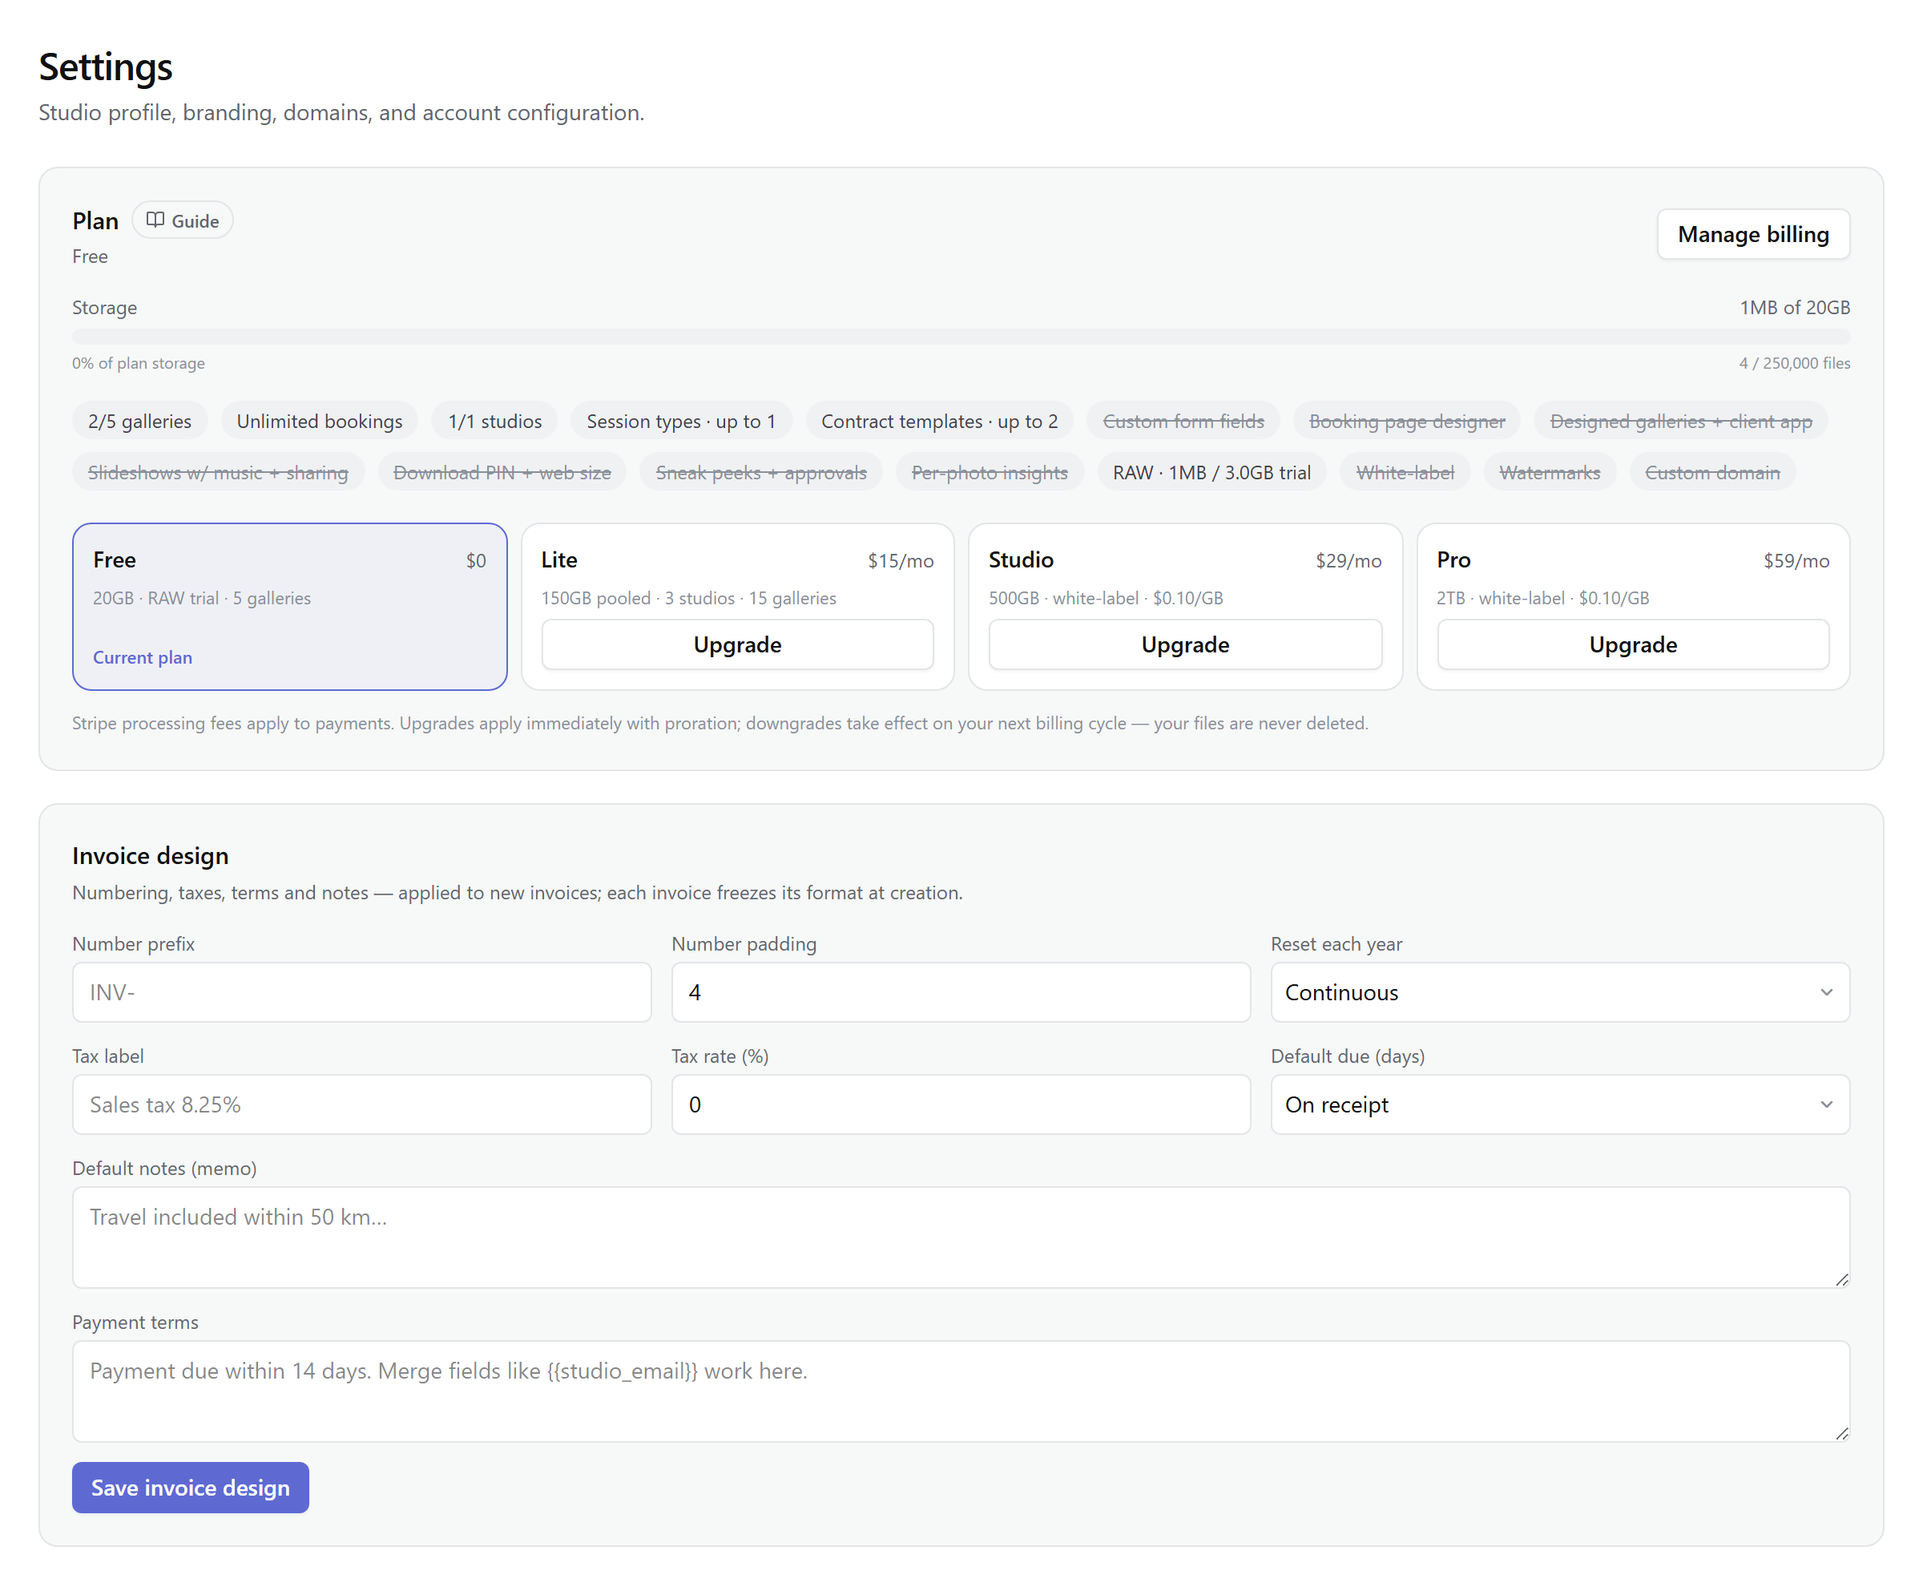
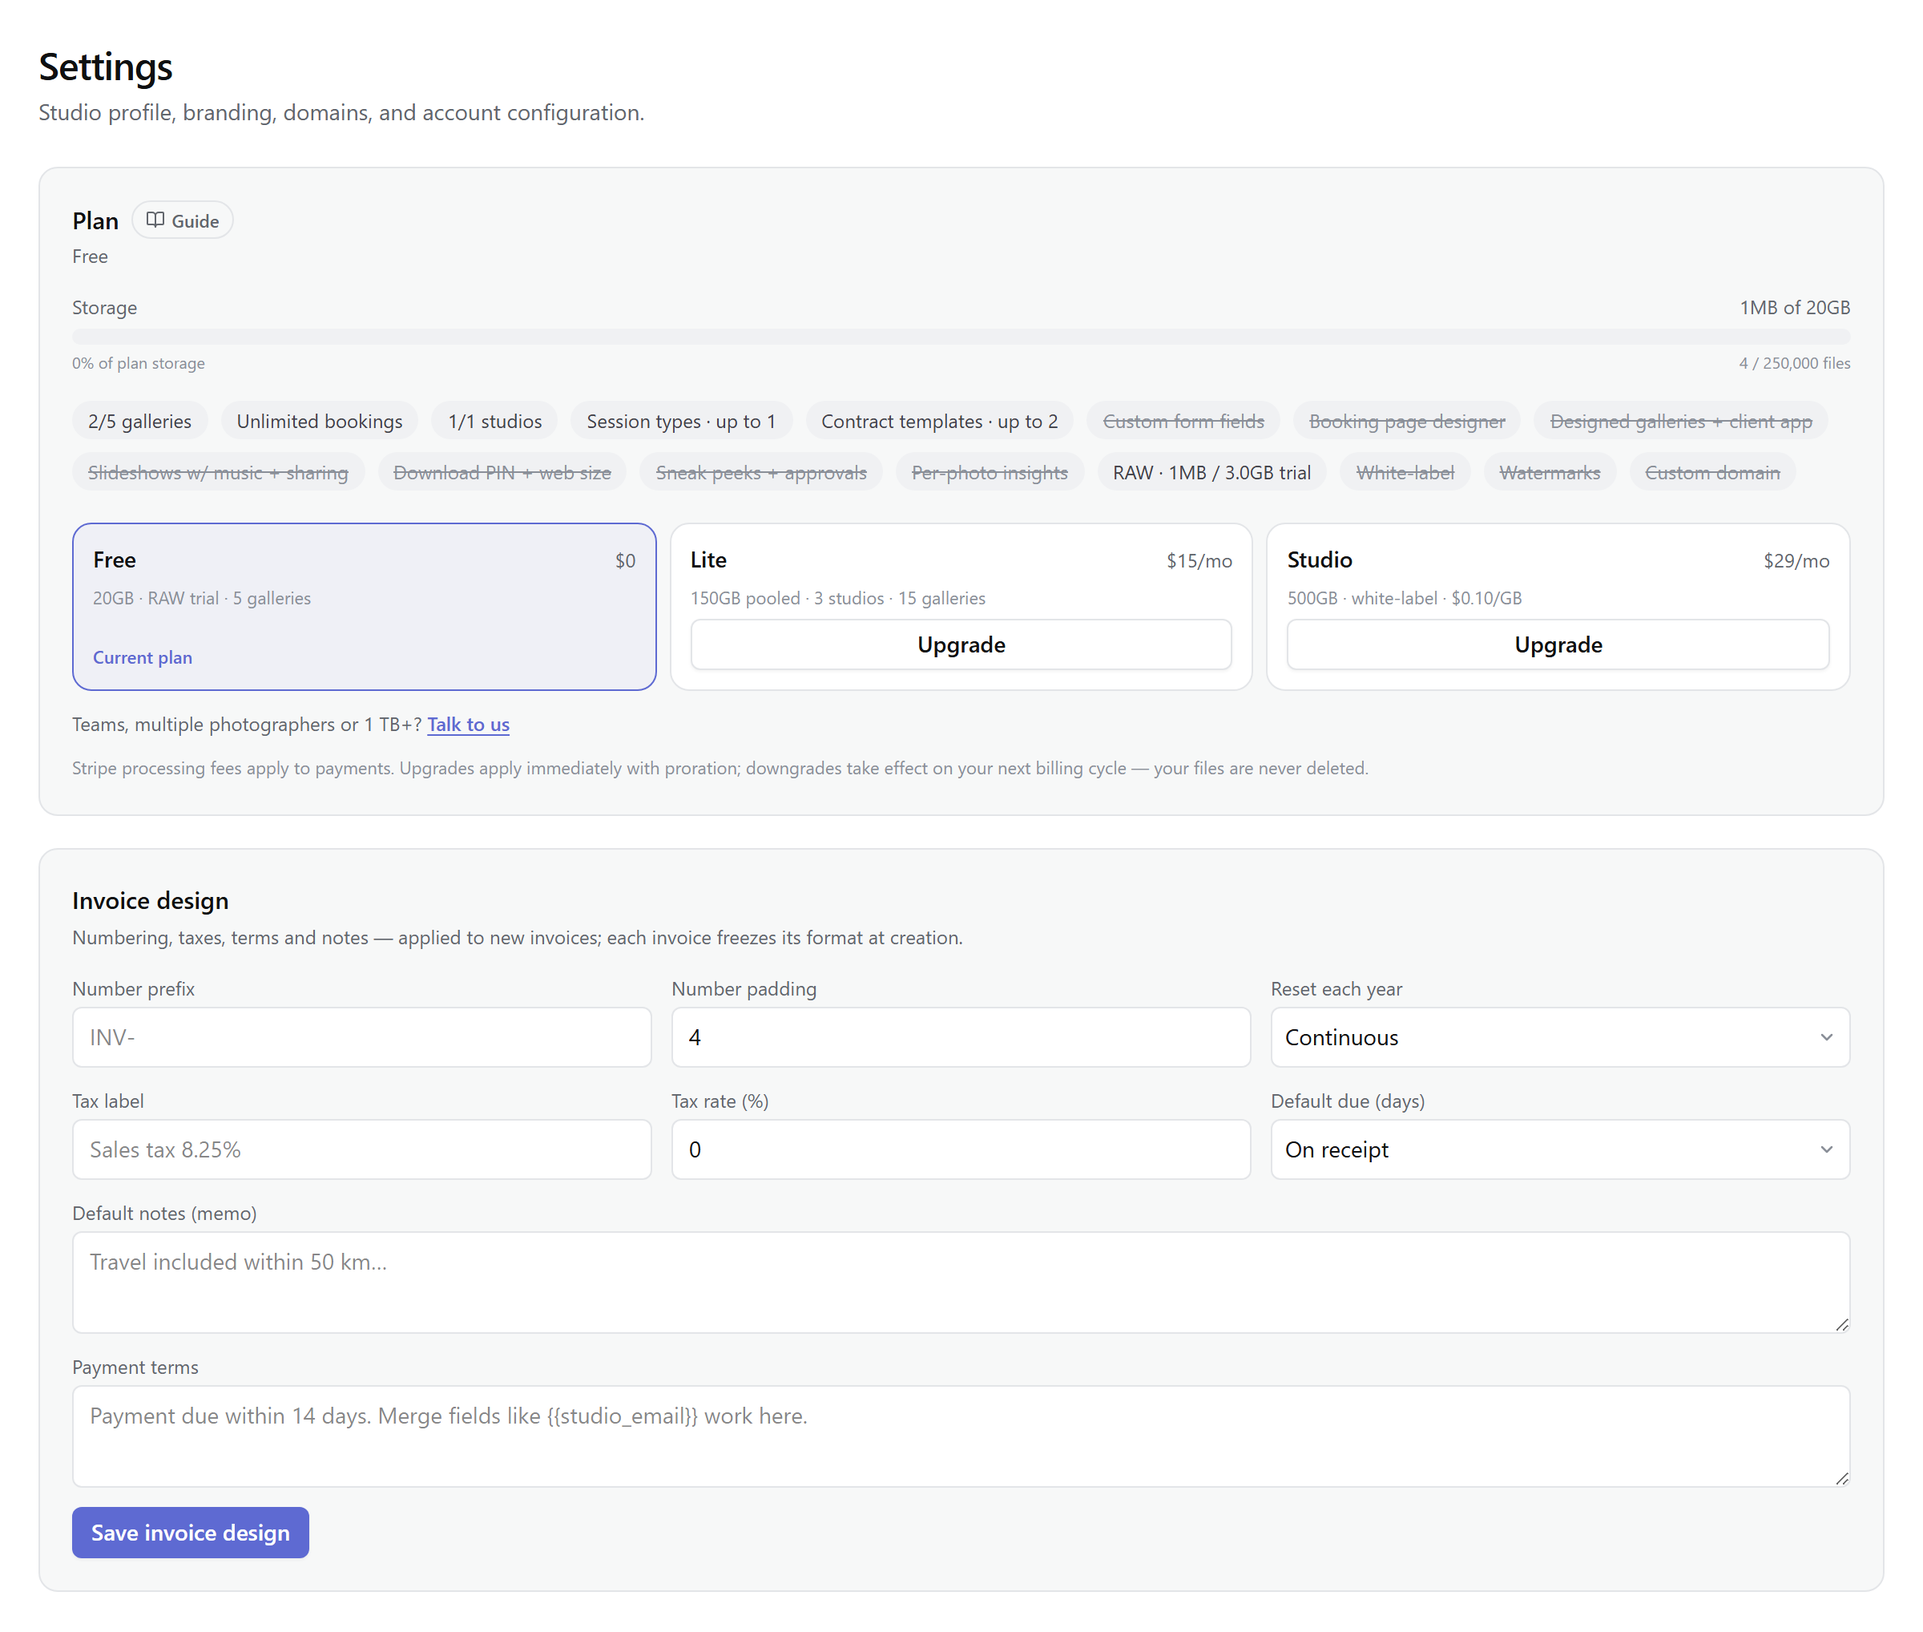
docs(snap): docs-guard cycle 5 — WEB-352 Stripe re-architecture documented (OAuth connect + existing account, direct charges in the studio's currency, connected-required before paid bookings, /b/ checkout-follow fix, per-thread payment-link void); snaphq.app migration swept across docs (canonical ho

diff --git a/apps/snap/lib/docs/content/payouts.tsx b/apps/snap/lib/docs/content/payouts.tsx
@@ -1,7 +1,10 @@
-/* Payouts - connecting your own Stripe account and where client money goes. Read from
+/* Payouts - connecting your own Stripe account (hosted onboarding or OAuth for an
+ * existing account) and where client money goes. Read from
  * components/payouts-panel.tsx, lib/connect.ts, and the booking/invoice
- * charge paths (direct charges on the studio account, no application fee, WEB-352). Fee and
- * timing claims stay within what the code and panel actually show. */
+ * charge paths (direct charges on the studio account, no application fee, WEB-352).
+ * State semantics: charges_enabled with only Stripe-side verification pending is
+ * still "active" - "restricted" is reserved for requirements Stripe waits on YOU for.
+ * Fee and timing claims stay within what the code and panel actually show. */
 import { H2, Note, Callout, Shot, Related } from "@/lib/docs/primitives";
 
 export default function Payouts() {
@@ -25,8 +28,9 @@ export default function Payouts() {
         If your studio already uses Stripe, choose <strong>I already have a Stripe account</strong> next to
         Connect payouts. You sign in to Stripe, approve Snap, and payments go to that account with
         no new account to create. Stripe&apos;s fees come out of your own account, exactly as with a
-        new one. To disconnect later, revoke Snap in your Stripe dashboard and Snap stops charging
-        on it. (The option only appears once Snap has it switched on for your region.)
+        new one. To disconnect later, revoke Snap in your Stripe dashboard — Snap stops
+        charging on it and the panel returns to Not connected. (The option only appears once
+        Snap has switched it on for the platform.)
       </p>
 
       <H2>Connecting your Stripe account</H2>
@@ -45,19 +49,19 @@ export default function Payouts() {
         <tbody>
           <tr>
             <td>Not connected</td>
-            <td>No Stripe account yet — the Connect payouts button starts onboarding.</td>
+            <td>No Stripe account connected yet — <strong>Connect payouts</strong> creates one with Stripe-hosted onboarding, or <strong>I already have a Stripe account</strong> links an existing one.</td>
           </tr>
           <tr>
             <td>Setup in progress</td>
-            <td>The account exists but onboarding isn&apos;t finished — Resume onboarding continues where you left off.</td>
+            <td>The account exists but onboarding — or Stripe&apos;s review of it — isn&apos;t finished. Resume onboarding continues where you left off.</td>
           </tr>
           <tr>
             <td>Connected</td>
-            <td>Payments can land. The panel gains your live balance and payout schedule.</td>
+            <td>Stripe accepts charges on your account — payments can land. Even while Stripe is still finishing identity verification or payout setup in the background, you stay Connected. The panel gains your live balance and payout schedule.</td>
           </tr>
           <tr>
             <td>Needs attention</td>
-            <td>Stripe needs updated information before payments continue — Update with Stripe reopens onboarding.</td>
+            <td>Stripe is waiting on <em>you</em> — past-due requirements or a disabled account. Update with Stripe reopens onboarding, and the panel names the items it needs.</td>
           </tr>
         </tbody>
       </table>
@@ -69,7 +73,8 @@ export default function Payouts() {
       <H2>Where the money goes</H2>
       <p>
         Clients pay your Stripe account directly — booking deposits and invoice payment links
-        are routed to it the moment you&apos;re connected. Snap&apos;s cut is <strong>$0</strong>:
+        are charged on it the moment you&apos;re connected, in your account&apos;s own currency.
+        Snap&apos;s cut is <strong>$0</strong>:
         there is no platform fee on client payments; the subscription is how Snap earns. Once
         connected, the panel shows your Stripe balance as it is — <strong>Available</strong>,{" "}
         <strong>Pending</strong>, and your <strong>last payout</strong> — refreshed from Stripe
@@ -94,8 +99,10 @@ export default function Payouts() {
       </p>
 
       <Callout tone="info" title="Needs attention is fixable, not fatal">
-        If Stripe flags your account — expired verification, a bank change — payments pause
-        until the information is updated. The panel names what Stripe is waiting on and links
+        A Stripe review that needs nothing from you never interrupts anything — identity
+        verification in flight keeps you Connected and taking payments. Needs attention appears
+        only when Stripe is waiting on you: an expired document, a bank change. Payments pause
+        until the information is updated, and the panel names what Stripe is waiting on and links
         you straight to the fix.
       </Callout>
 

diff --git a/apps/snap/lib/docs/content/payments.tsx b/apps/snap/lib/docs/content/payments.tsx
@@ -40,6 +40,13 @@ export default function Payments() {
         ]}
       />
       <Note>
+        Everything about an invoice is counted in <strong>your Stripe account&apos;s
+        currency</strong> — the one your connected account settles in, not a Snap default. Line
+        items and the total show it in the composer, the client&apos;s checkout charges it, and
+        merge fields like <code>{"{{invoice_total}}"}</code> and{" "}
+        <code>{"{{deposit}}"}</code> format with it.
+      </Note>
+      <Note>
         After sending, an invoice is <strong>paid</strong> two ways: the client pays the link and
         Stripe&apos;s webhook flips it automatically, or you press{" "}
         <strong>Mark paid</strong> for money that arrived some other way. <strong>Void</strong>{" "}
@@ -63,8 +70,9 @@ export default function Payments() {
       <p>
         The emailed link opens a private invoice page — studio name, status badge, line items,
         tax line, total due, and your terms and notes — with a{" "}
-        <strong>Pay — secure checkout</strong> button while the invoice is unpaid and a PDF
-        download. The link is a 256-bit token unique to that invoice: no login, unguessable, and
+        <strong>Pay — secure checkout</strong> button whenever the invoice carries its online
+        payment link (an invoice sent before a Stripe account was connected goes out without
+        one) and a PDF download. The link is a 256-bit token unique to that invoice: no login, unguessable, and
         you can resend it any time. Voided invoices vanish from their link entirely. The page and
         email follow your brand, dropping Snap&apos;s name entirely when white-labeled.
       </p>

diff --git a/apps/snap/lib/docs/content/booking-page.tsx b/apps/snap/lib/docs/content/booking-page.tsx
@@ -47,8 +47,9 @@ export default function BookingPage() {
           </>,
           <>
             <strong>Pay, if you ask them to</strong> — when a deposit or full payment is required
-            (on the session type or your booking settings), they finish through Stripe Checkout
-            while the slot is held.
+            (on the session type or your booking settings), the whole page follows Stripe
+            Checkout — hosted by Stripe, and back to your page when it&apos;s done — while the
+            slot is held.
           </>,
           <>
             <strong>Get confirmed</strong> — a branded confirmation email with a calendar invite
@@ -57,6 +58,15 @@ export default function BookingPage() {
           </>,
         ]}
       />
+      <p>
+        Money follows your Stripe account, not a Snap default: prices on the page show in your
+        account&apos;s currency, and paid bookings are charged on it directly (see{" "}
+        <a href="/docs/payouts">Payouts</a>). Paid bookings need that connection to be active —
+        if it isn&apos;t, the calendar doesn&apos;t take bookings it can&apos;t charge for.
+        Clients who try to pay see a plain note that the studio can&apos;t take online payments
+        right now and to get in touch directly, with your contact email in the footer just
+        below.
+      </p>
       <p>
         The page embeds exactly the same calendar as the{" "}
         <a href="/docs/embeds">website embed</a> — identical availability engine, bot protection,

diff --git a/apps/snap/lib/docs/content/embeds.tsx b/apps/snap/lib/docs/content/embeds.tsx
@@ -11,7 +11,7 @@ import { DocsCode } from "@/components/docs-code";
 import { DocsLiveDemo } from "@/components/docs-live-demo";
 import { getDb } from "@/lib/db";
 import * as schema from "@/lib/db-schema";
-import { PUBLIC_ORIGIN } from "@/lib/hosts";
+import { PUBLIC_ORIGIN, emailAddress } from "@/lib/hosts";
 
 const LOADER = `${PUBLIC_ORIGIN}/embed/loader.js`;
 
@@ -38,6 +38,10 @@ export default function Embeds() {
         <a href="/dashboard/settings/embeds">Settings → Embeds</a>, or paste the examples below.
         Want the pages themselves on your own domain? See{" "}
         <a href="/docs/domains">custom domains</a>.
+      </p>
+      <p>
+        Embedded Snap before our move to snaphq.app? Snippets pointing at the older{" "}
+        <code>snap.webcules.com</code> loader keep working — no need to repaste anything.
       </p>
 
       <Callout tone="warn" title="Before you embed">
@@ -200,7 +204,7 @@ function App() {
       <p>
         Snippets are generated per studio with your key and theme at{" "}
         <a href="/dashboard/settings/embeds">Settings → Embeds</a>. Questions —{" "}
-        <a href="mailto:hello@webcules.com">hello@webcules.com</a>.
+        <a href={`mailto:${emailAddress("hello")}`}>{emailAddress("hello")}</a>.
       </p>
 
       <Related slugs={["booking-page", "domains", "brand"]} />

diff --git a/apps/snap/lib/docs/content/bookings.tsx b/apps/snap/lib/docs/content/bookings.tsx
@@ -60,6 +60,19 @@ export default function Bookings() {
         <strong>unpaid</strong>, <strong>deposit</strong>, or <strong>paid</strong>.
       </p>
 
+      <H2>Turning on paid bookings</H2>
+      <p>
+        Payment at booking — a deposit or the full session amount — is switched on under{" "}
+        <a href="/dashboard/calendar?tab=availability">Calendar → Availability → Booking
+        payment</a> or per session type in <a href="/dashboard/templates/session-types">Templates
+        → Session types</a>. Both refuse to switch on until your Stripe account is connected and
+        active, with a link straight to <a href="/dashboard/settings/payouts">Settings →
+        Payouts</a> — client payments are charged directly on your account, so there is nowhere
+        for them to land without one. Charges run in your Stripe account&apos;s currency. If a
+        connection is ever lost after payment was already on, the setting stays as it was, but
+        clients can&apos;t complete a paid booking until you reconnect.
+      </p>
+
       <H2>What a confirmed booking creates</H2>
       <ul>
         <li>

diff --git a/apps/snap/lib/docs/content/inbox.tsx b/apps/snap/lib/docs/content/inbox.tsx
@@ -123,7 +123,12 @@ export default function Inbox() {
         In-Reply-To/References chain, Snap&rsquo;s own thread header, Outlook&rsquo;s
         Thread-Index, the unique per-conversation reply address your mail now carries, and
         finally a normalized subject match with the same client within 45 days. Anything that
-        survives all five lands under <strong>Needs triage</strong> instead of vanishing.
+        survives all five lands under <strong>Needs triage</strong> instead of vanishing — and
+        from there Snap asks rather than guesses: attach the email to the client, lead or project
+        it belongs to, and if that project has no client yet a <strong>Connect a client</strong>{" "}
+        prompt opens with the sender already filled in. Conversations that were left without a
+        client show the same <strong>Connect a client</strong> button where the reply box would
+        be, so a reply always has somewhere to go.
       </p>
       <p>
         Two safety nets while the inbox is young. <strong>Reply mirroring</strong> (Settings →

diff --git a/apps/snap/lib/docs/content/domains.tsx b/apps/snap/lib/docs/content/domains.tsx
@@ -33,6 +33,12 @@ export default function Domains() {
         <code>clients.</code> or <code>book.</code> are the popular choices.
       </p>
 
+      <p>
+        Your hostname is first-class from the moment it activates: the gallery sign-in, contract
+        signing, the client portal and questionnaires all work on it — human check included, with
+        no extra setup on our side.
+      </p>
+
       <H2>The three steps</H2>
       <Steps
         items={[
@@ -177,7 +183,8 @@ export default function Domains() {
       </p>
       <p>
         <strong>I run multiple studios — one domain each?</strong> Each studio in your family
-        configures its own domains in its own Settings → Domains.
+        configures its own domains in its own Settings → Domains — and there&rsquo;s no limit on
+        how many studios can connect one.
       </p>
       <p>
         <strong>What does it cost?</strong> On Studio, a custom domain is the +$5/mo add-on for

diff --git a/apps/snap/components/availability-editor.tsx b/apps/snap/components/availability-editor.tsx
@@ -246,7 +246,7 @@ export function AvailabilityEditor({
           >
             <strong className="font-medium">Connect your Stripe account to take payments.</strong>{" "}
             {payEnabled
-              ? "Payment is on, but clients can't complete a paid booking until Stripe is connected - they will see an error. Connect now, or turn payment off."
+              ? "Payment is on, but clients can't complete a paid booking until Stripe is connected - they'll see a note explaining you can't take online payments yet. Connect now, or turn payment off."
               : "Paid bookings stay off until Stripe is connected. Clients pay you directly, and Stripe's fee comes out of your own Stripe account."}{" "}
             <a href="/dashboard/settings/payouts" className="font-medium text-primary underline underline-offset-2">
               Connect Stripe in Settings → Payouts

diff --git a/apps/snap/lib/docs/content/leads.tsx b/apps/snap/lib/docs/content/leads.tsx
@@ -84,7 +84,8 @@ export default function Leads() {
         studio&apos;s own events (bookings, contracts, payments, gallery activity) interleave as
         compact cards with deep links. The thread header links the lead and the project, and an
         email that arrived unmatched can be attached to the right client, lead or project from{" "}
-        <strong>Needs triage</strong> in one click.
+        <strong>Needs triage</strong> in one click — if the project has no client yet, Snap asks
+        you to connect one (the sender comes prefilled) instead of inventing an address.
       </p>
 
       <H2>Replying &amp; the composer</H2>

diff --git a/apps/snap/components/payouts-panel.tsx b/apps/snap/components/payouts-panel.tsx
@@ -57,7 +57,7 @@ const STATE_COPY: Record<ConnectStatus["state"], { label: string; tone: string; 
   pending: {
     label: "Setup in progress",
     tone: "bg-amber-500/10 text-amber-600 dark:text-amber-400",
-    body: "Your Stripe account is created but onboarding isn't finished. Payments require the remaining steps.",
+    body: "Your Stripe account is created but onboarding isn't finished yet (or Stripe is still reviewing it). Payments unlock the moment it clears.",
   },
   active: {
     label: "Connected",
